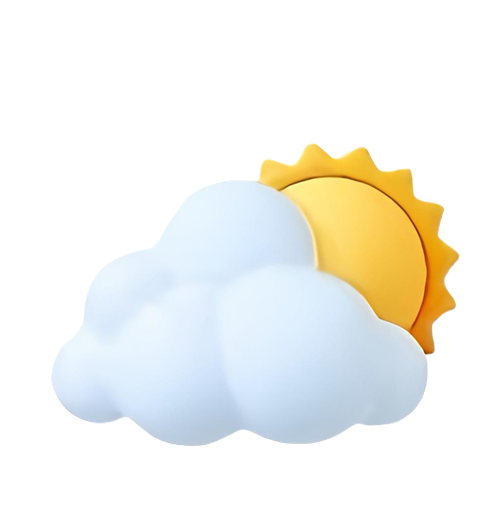
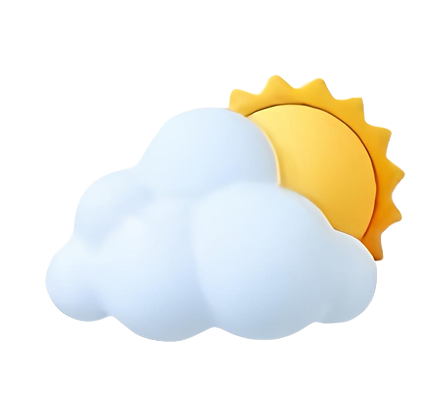
Checkpoint mau dalemin Hooks dn State

Changed region(s): [[0.089, 0.1739, 0.9201, 0.8696], [0.2374, 0.3478, 0.3858, 0.4928], [0.1484, 0.4928, 0.2078, 0.5797]]

diff --git a/app/(tabs)/components/home/Today.tsx b/app/(tabs)/components/home/Today.tsx
@@ -1,0 +1,115 @@
+import { StyleSheet, Text, View, ScrollView, Image } from 'react-native'
+import React from 'react'
+import { LinearGradient } from 'expo-linear-gradient'
+import { getIkonCuaca } from '../../../../constants/WeatherUtils'
+
+const Today = () => {
+    // Data dummy untuk contoh
+    const hourlyForecast = [
+        { time: '14.00', temp: 32, code: 1000, isDay: true },
+        { time: '15.00', temp: 30, code: 1087, isDay: true },
+        { time: '16.00', temp: 29, code: 1273, isDay: true },
+        // Bisa tambah data lain kalau mau
+    ]
+
+    return (
+        <View style={styles.container}>
+            <View style={styles.header}>
+
+                <Text style={styles.title}>Today</Text>
+                <Text style={styles.viewReport}>View full report</Text>
+            </View>
+
+            <ScrollView 
+                horizontal
+                showsHorizontalScrollIndicator={false}
+                contentContainerStyle={styles.scrollViewContent}
+            >
+                {hourlyForecast.map((item, index) => (
+                    <LinearGradient
+                        key={index}
+                        colors={item.code === 1000 ? ['#4A9EFF', '#0D6EFD'] : ['#3A3A3A', '#2B2B2B']}
+                        style={styles.forecastCard}
+                        start={{ x: 0, y: 0 }}
+                        end={{ x: 1, y: 1 }}
+                    >
+                        <View style={styles.imageCuaca}>
+                            <Image 
+                                source={getIkonCuaca(item.code, item.isDay)} 
+                                style={styles.weatherIcon} 
+                            />
+                        </View>
+
+                        <View style={styles.forecastInfo}>
+                            <Text style={styles.time}>{item.time}</Text>
+                            <Text style={styles.temp}>{item.temp}°C</Text>
+                        </View>
+                    </LinearGradient>
+                ))}
+            </ScrollView>
+        </View>
+    )
+}
+
+export default Today
+
+const styles = StyleSheet.create({
+    container: {
+        marginTop: 35,
+    },
+    header: {
+        flexDirection: 'row',
+        justifyContent: 'space-between',
+        alignItems: 'center',
+        marginBottom: 15,
+    },
+    title: {
+        fontSize: 24,
+        fontWeight: 'bold',
+        color: 'white',
+    },
+    viewReport: {
+        fontSize: 14,
+        color: '#4A9EFF',
+    },
+    scrollViewContent: {
+        flexDirection: 'row',
+        paddingRight: 15,
+    },
+    forecastCard: {
+        padding: 15,
+        borderRadius: 20,
+        marginRight: 15,
+        width: 150,
+        flexDirection: 'row',
+        height: 80,
+        alignItems: 'center',
+        justifyContent: 'center',
+        gap: 10,
+    },
+    imageCuaca: {
+        height: '100%',
+        justifyContent: 'center',
+        alignItems: 'center',
+    },
+    weatherIcon: {
+        width: 50,
+        height: 50,
+        resizeMode: 'contain',
+    },
+    forecastInfo: {
+        flexDirection: 'column',
+        gap: 5,
+        justifyContent: 'center',
+    },
+    time: {
+        color: 'white',
+        fontSize: 16,
+        fontWeight: '500',
+    },
+    temp: {
+        color: 'white',
+        fontSize: 18,
+        fontWeight: 'bold',
+    }
+})

diff --git a/constants/weatherUtils.ts b/constants/weatherUtils.ts
@@ -329,9 +329,9 @@ export interface KondisiCuaca {
     // }
     
     // // Berangin
-    // if ([1114, 1117].includes(code)) {
-    //   return require('../assets/icons/berangin.png');  // Awan dengan angin
-    // }
+    if ([1114, 1117].includes(code)) {
+      return require('../assets/images/cuaca/berangin.png');  // Awan dengan angin
+    }
     
     // // Gerimis/Hujan ringan
     // if ([1063, 1150, 1153, 1180, 1183, 1240].includes(code)) {
@@ -349,9 +349,9 @@ export interface KondisiCuaca {
     // }
     
     // // Badai petir (tanpa hujan)
-    // if (code === 1087) {
-    //   return require('../assets/icons/petir.png');  // Awan dengan petir
-    // }
+    if (code === 1087) {
+      return require('../assets/images/cuaca/hujan_petir.png');  // Awan dengan petir
+    }
     
     // // Badai hujan (hujan + petir)
     // if ([1273, 1276].includes(code)) {

diff --git a/app/(tabs)/index.tsx b/app/(tabs)/index.tsx
@@ -9,6 +9,7 @@ import Header from './components/home/Header';
 import SwitchBtn from './components/home/SwitchBtn';
 import ImageCuaca from './components/home/ImageCuaca';
 import StatusCuaca from './components/home/StatusCuaca';
+import Today from './components/home/Today';
 
 export default function HomeScreen() {
   const router = useRouter();
@@ -41,8 +42,9 @@ export default function HomeScreen() {
       <SafeAreaView style={{ flex: 1 }}>
         <Header />
         <SwitchBtn />
-        <ImageCuaca kode={1000} isDay={true} />
+        <ImageCuaca />
         <StatusCuaca />
+        <Today />
         </SafeAreaView>
     </LinearGradient>
   );

diff --git a/app/(tabs)/components/home/SwitchBtn.tsx b/app/(tabs)/components/home/SwitchBtn.tsx
@@ -34,6 +34,7 @@ const styles = StyleSheet.create({
       borderRadius: 25,
       padding: 4,
       marginTop: 40,
+      marginBottom: 20,
       alignSelf: 'center',
     },
     btn: {

diff --git a/app/(tabs)/components/home/ImageCuaca.tsx b/app/(tabs)/components/home/ImageCuaca.tsx
@@ -29,6 +29,6 @@ const styles = StyleSheet.create({
   image: {
     width: 300,
     height: 300,
-    marginTop: -50,
+    marginTop: -30,
   }
 })
